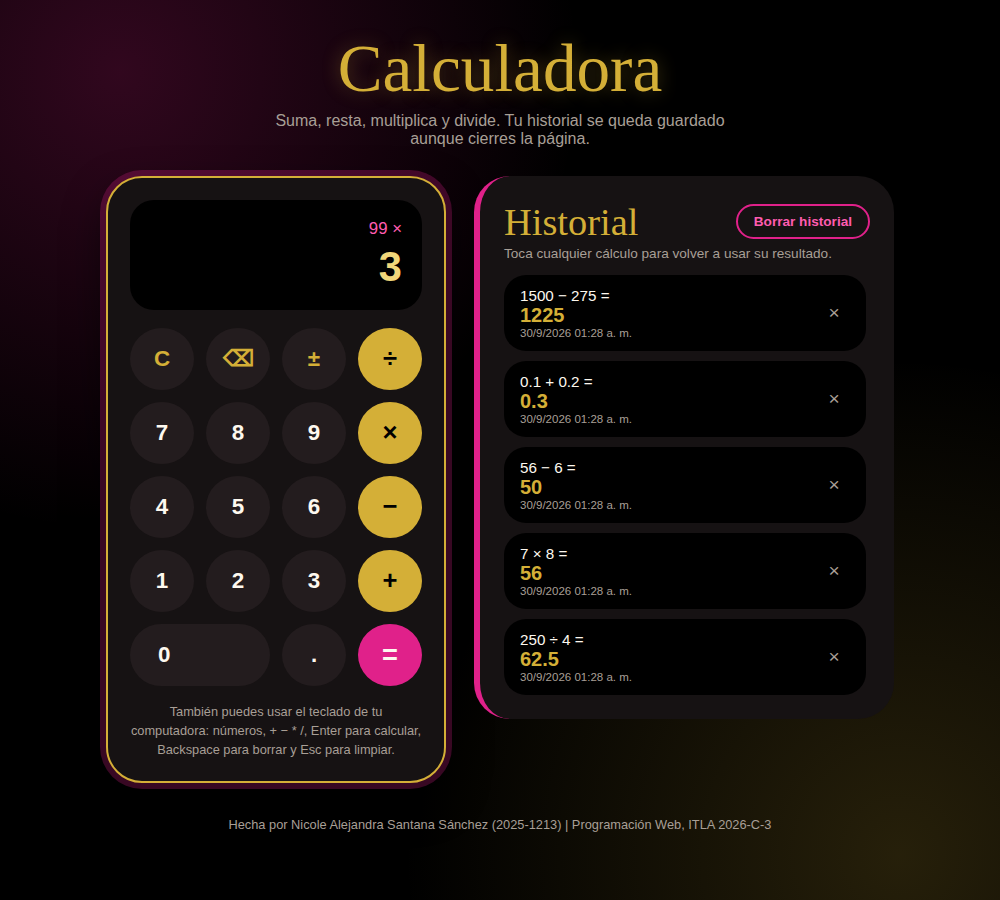
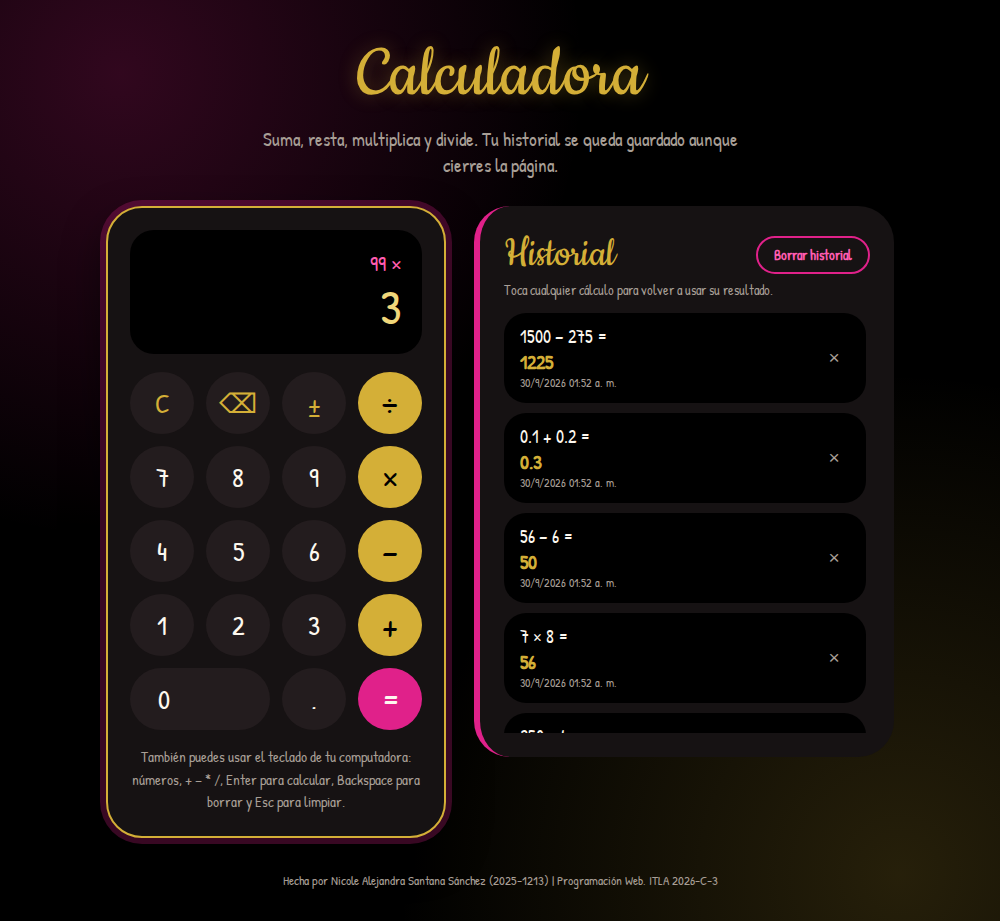
Cambio de letras: titulos en script y cuerpo en letra manuscrita

diff --git a/css/estilos.css b/css/estilos.css
@@ -24,7 +24,7 @@ body {
         radial-gradient(circle at 12% 8%, rgba(224, 33, 138, 0.22), transparent 38%),
         radial-gradient(circle at 90% 95%, rgba(212, 175, 55, 0.18), transparent 40%);
     color: var(--blanco);
-    font-family: 'Quicksand', 'Segoe UI', Arial, sans-serif;
+    font-family: 'Patrick Hand', 'Comic Sans MS', cursive;
     padding: 32px 20px;
 }
 
@@ -35,9 +35,9 @@ body {
 }
 
 .cabecera h1 {
-    font-family: 'Great Vibes', 'Brush Script MT', cursive;
+    font-family: 'Cookie', 'Brush Script MT', cursive;
     font-weight: 400;
-    font-size: 4.2rem;
+    font-size: 5rem;
     line-height: 1.1;
     color: var(--dorado);
     text-shadow: 0 0 18px rgba(212, 175, 55, 0.35);
@@ -45,7 +45,7 @@ body {
 
 .subtitulo {
     color: var(--gris);
-    font-size: 1rem;
+    font-size: 1.2rem;
     max-width: 480px;
     margin: 6px auto 0;
 }
@@ -87,7 +87,7 @@ body {
 
 .operacion {
     color: var(--fucsia-claro);
-    font-size: 1.05rem;
+    font-size: 1.35rem;
     min-height: 1.4em;
     word-break: break-all;
 }
@@ -95,7 +95,8 @@ body {
 .resultado {
     color: var(--dorado-claro);
     font-size: 2.6rem;
-    font-weight: 700;
+    font-weight: 400;
+    font-size: 3rem;
     word-break: break-all;
     line-height: 1.2;
 }
@@ -118,8 +119,8 @@ body {
     background-color: var(--negro-tecla);
     color: var(--blanco);
     font-family: inherit;
-    font-size: 1.4rem;
-    font-weight: 600;
+    font-size: 1.7rem;
+    font-weight: 400;
     cursor: pointer;
     transition: transform 0.08s, background-color 0.2s;
 }
@@ -147,7 +148,7 @@ body {
 .tecla.operador {
     background-color: var(--dorado);
     color: var(--negro);
-    font-size: 1.6rem;
+    font-size: 2.1rem;
 }
 
 .tecla.operador:hover {
@@ -169,7 +170,7 @@ body {
     grid-column: span 1;
     background-color: var(--fucsia);
     color: var(--blanco);
-    font-size: 1.7rem;
+    font-size: 2.1rem;
 }
 
 .tecla.igual:hover {
@@ -178,7 +179,7 @@ body {
 
 .pista {
     margin-top: 16px;
-    font-size: 0.8rem;
+    font-size: 0.95rem;
     color: var(--gris);
     text-align: center;
     line-height: 1.5;
@@ -203,9 +204,9 @@ body {
 }
 
 .historial h2 {
-    font-family: 'Great Vibes', 'Brush Script MT', cursive;
+    font-family: 'Cookie', 'Brush Script MT', cursive;
     font-weight: 400;
-    font-size: 2.4rem;
+    font-size: 2.8rem;
     color: var(--dorado);
 }
 
@@ -264,7 +265,7 @@ body {
 
 .item-texto .cuenta {
     color: var(--blanco);
-    font-size: 0.95rem;
+    font-size: 1.1rem;
 }
 
 .item-texto .respuesta {

diff --git a/index.html b/index.html
@@ -6,7 +6,7 @@
     <title>Calculadora Web | Nicky Santana</title>
     <link rel="preconnect" href="https://fonts.googleapis.com">
     <link rel="preconnect" href="https://fonts.gstatic.com" crossorigin>
-    <link href="https://fonts.googleapis.com/css2?family=Great+Vibes&family=Quicksand:wght@400;500;600;700&display=swap" rel="stylesheet">
+    <link href="https://fonts.googleapis.com/css2?family=Cookie&family=Patrick+Hand&display=swap" rel="stylesheet">
     <link rel="stylesheet" href="css/estilos.css">
     <script src="js/calculadora.js"></script>
 </head>
